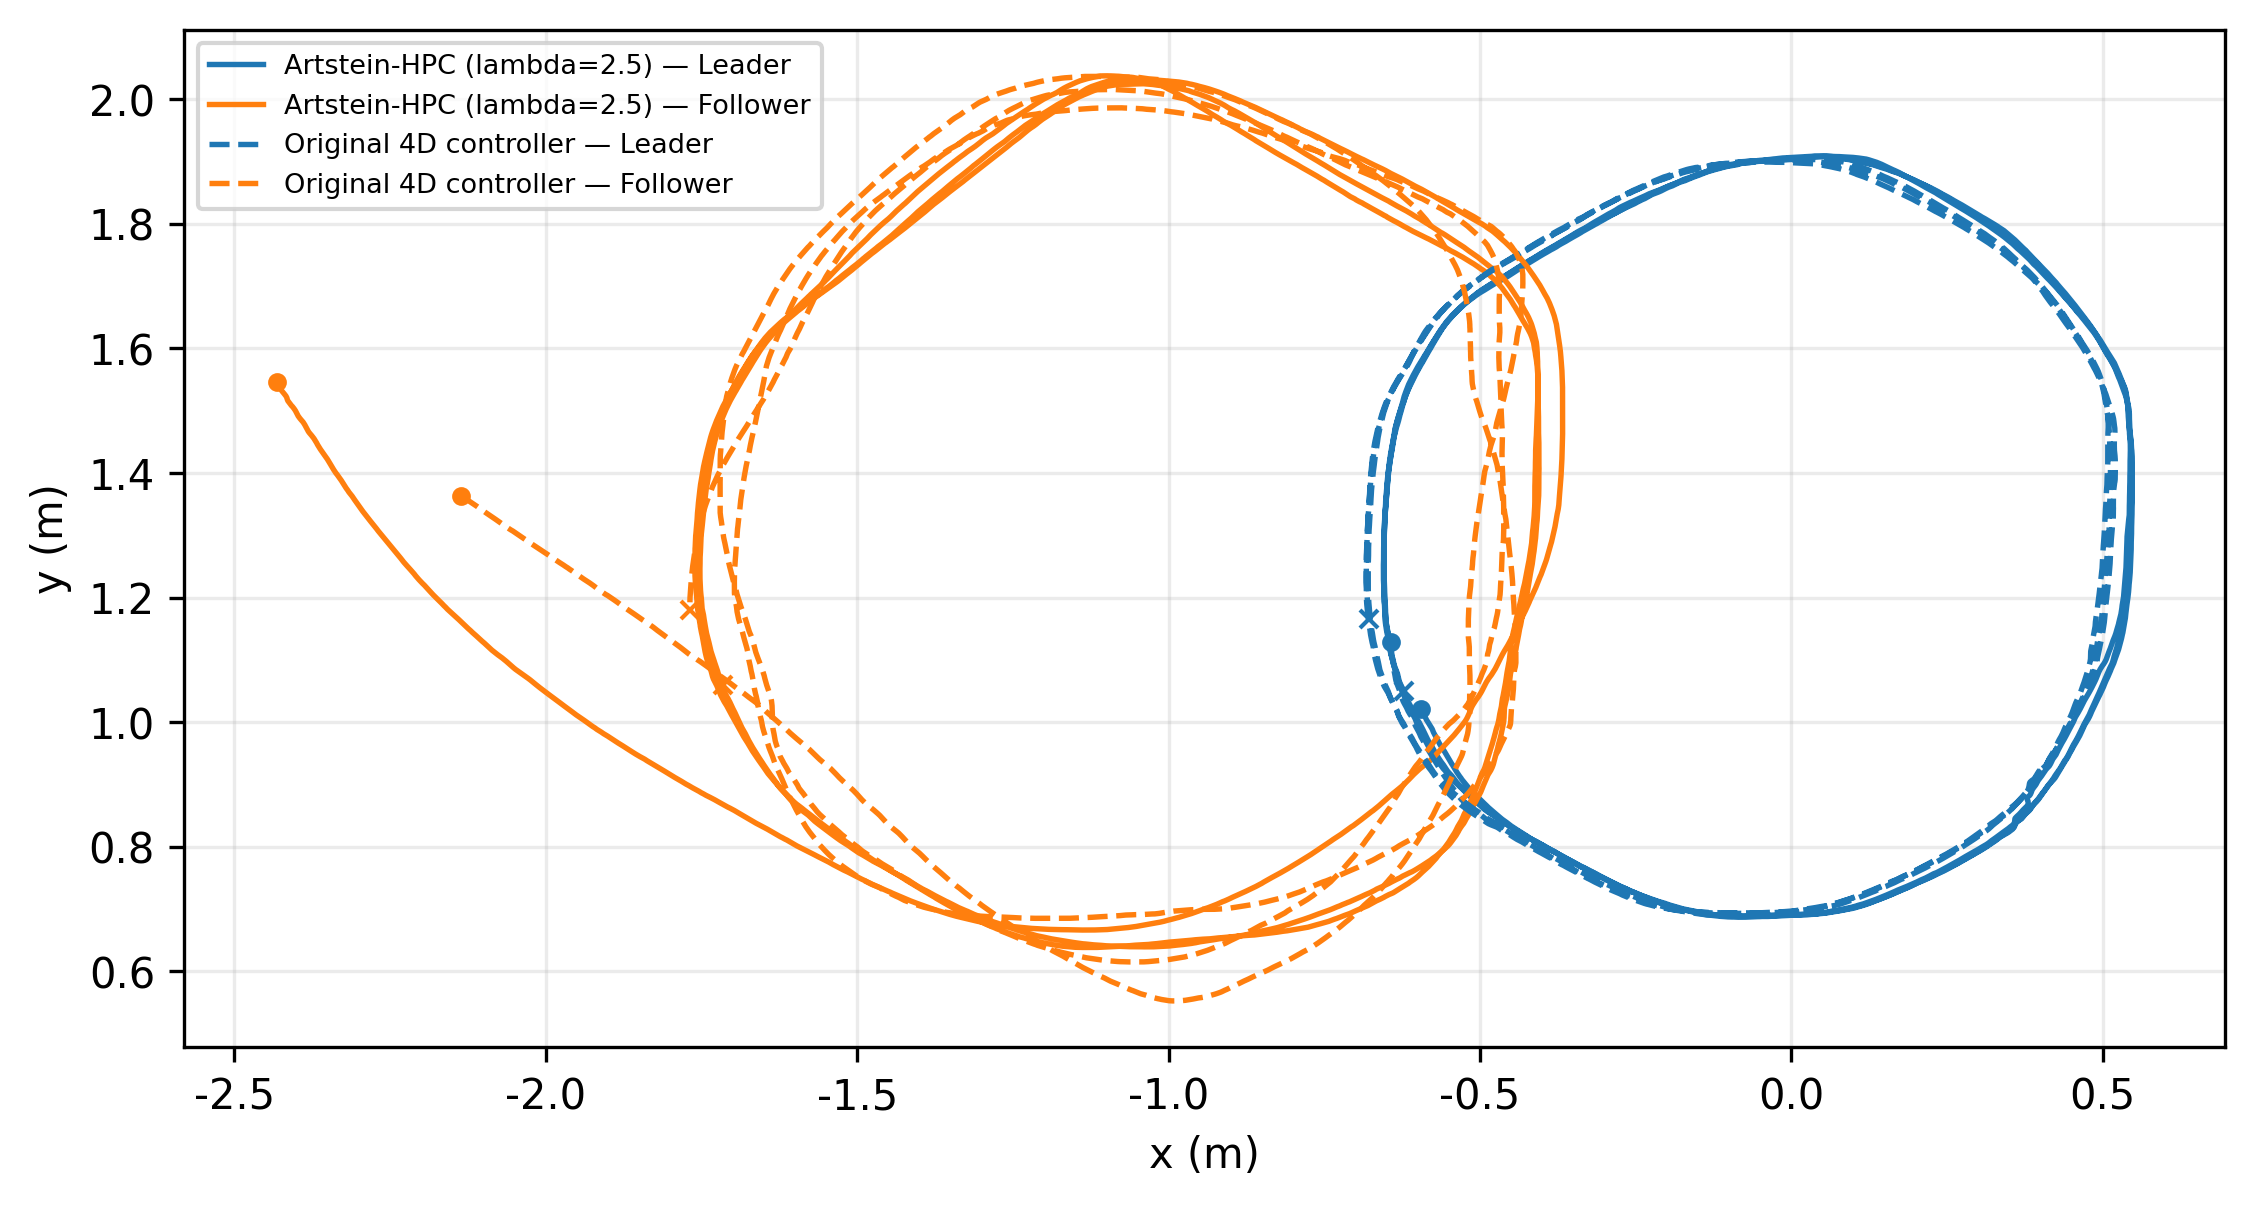
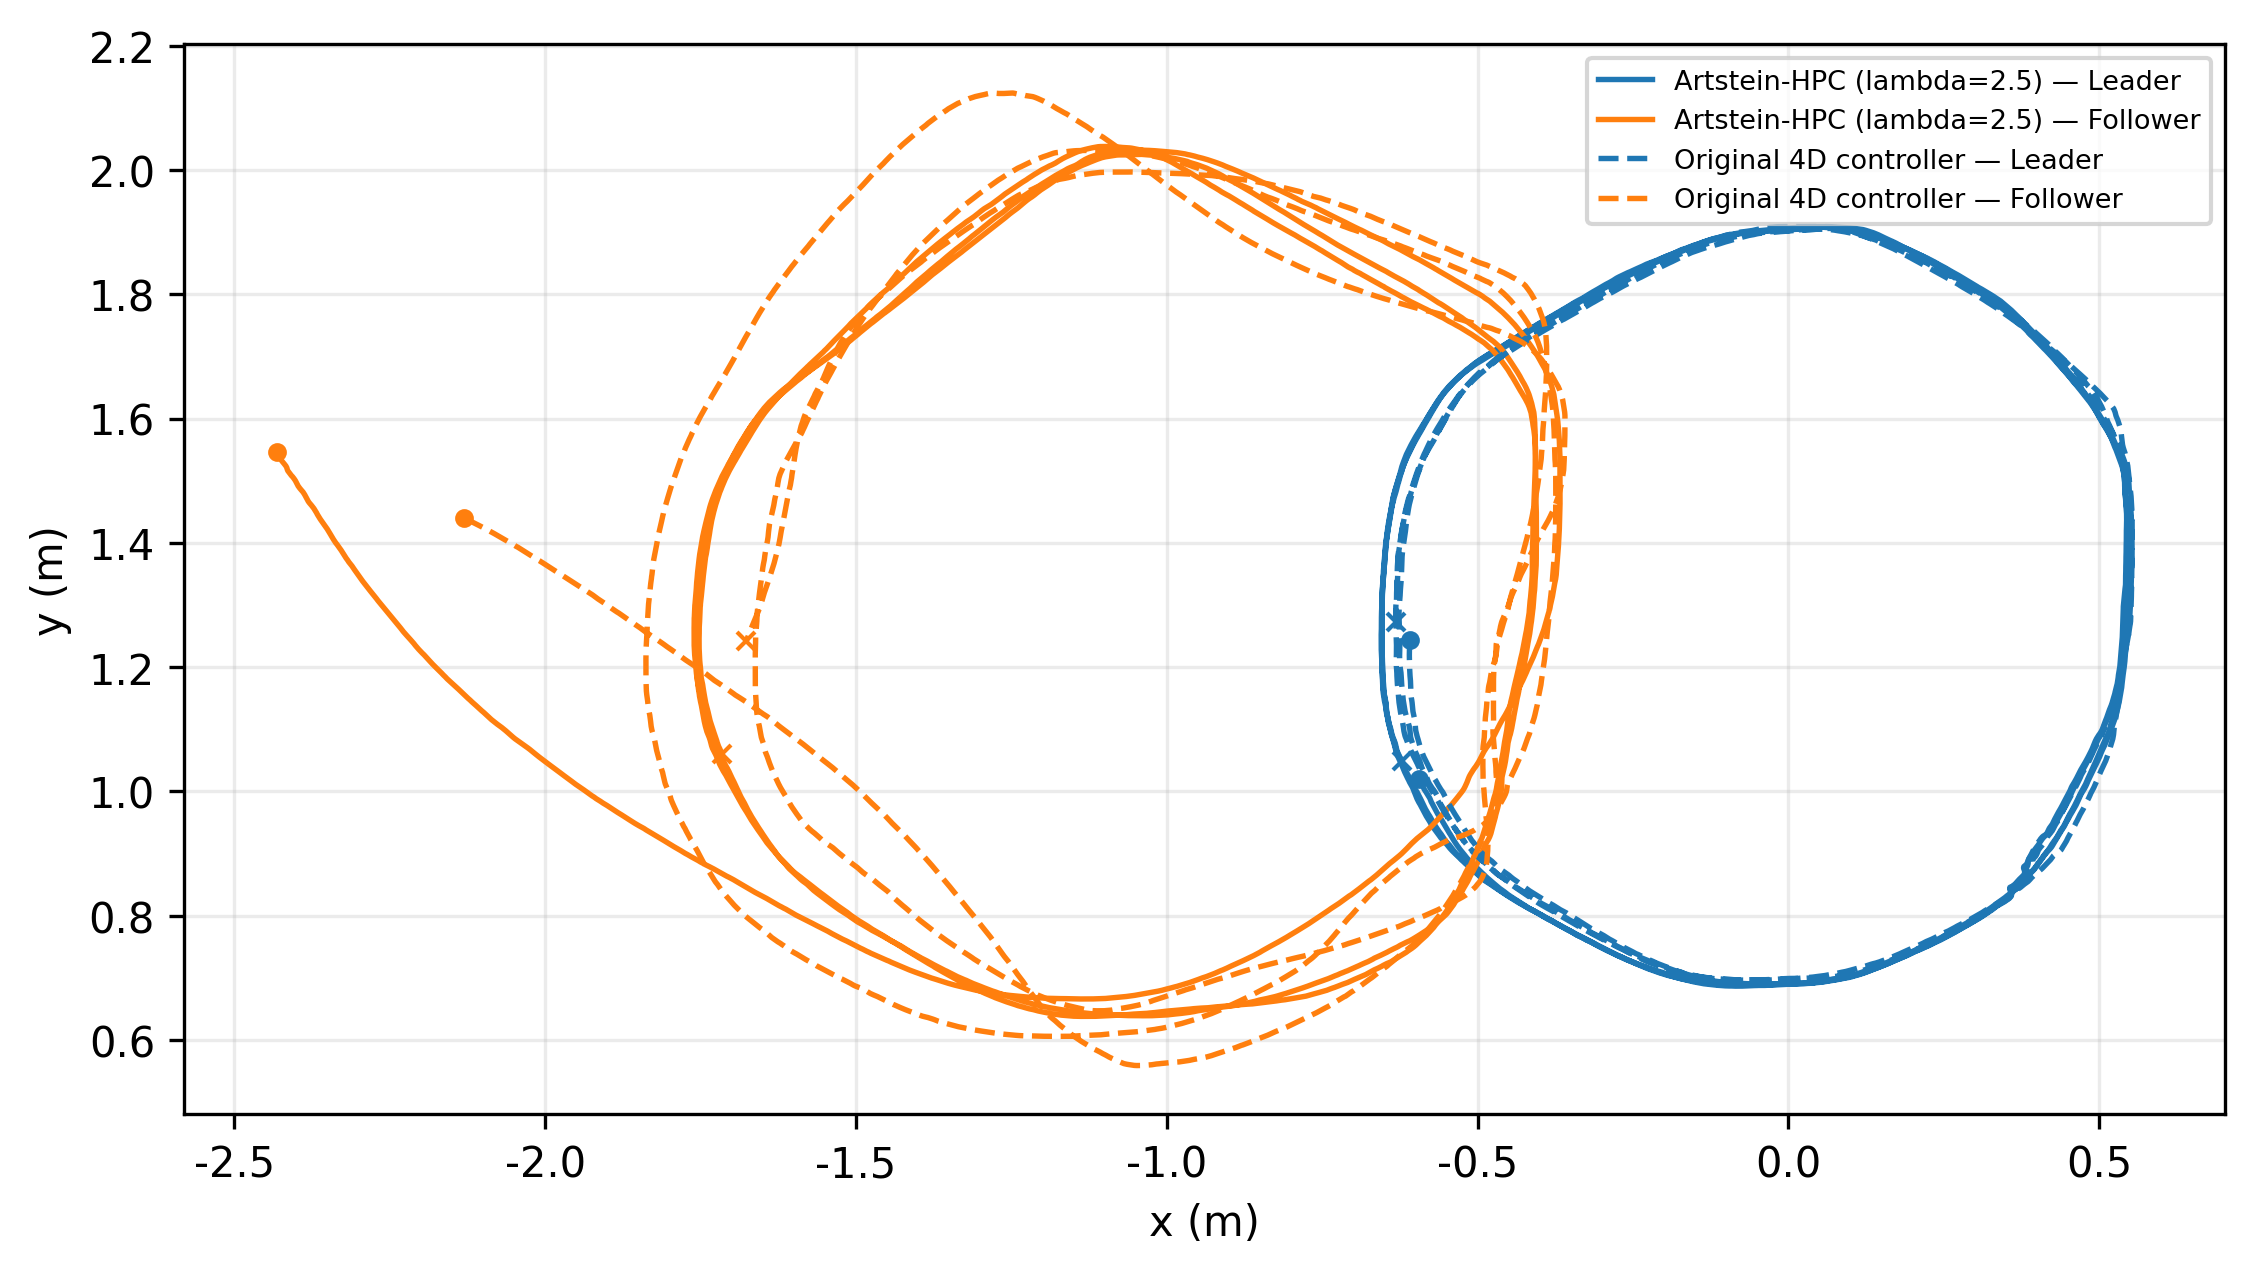
替换实验三原始4D对比数据

diff --git a/homo_multirobot_formation_control/scripts/build_real_tracking_deliverables.py b/homo_multirobot_formation_control/scripts/build_real_tracking_deliverables.py
@@ -336,7 +336,17 @@ def append_artstein_original_4d_comparison(input_dir, word_path):
     if missing:
         raise ValueError("缺少实验三指标：" + ", ".join(missing))
     document = Document(word_path)
-    add_heading(document, "7. 实验三：Artstein 4D 与原始4D控制器实物对比", 1)
+    heading_text = "7. 实验三：Artstein 4D 与原始4D控制器实物对比"
+    for paragraph in document.paragraphs:
+        if paragraph.text == heading_text:
+            body = paragraph._p.getparent()
+            start = list(body).index(paragraph._p)
+            for element in list(body)[start:]:
+                if element.tag.endswith("sectPr"):
+                    break
+                body.remove(element)
+            break
+    add_heading(document, heading_text, 1)
     add_body_paragraph(
         document,
         "本实验比较采用 Artstein 输入时滞补偿与 Follower 状态前向预测的 4D 控制器，"

diff --git a/homo_multirobot_formation_control/test/test_build_real_tracking_deliverables.py b/homo_multirobot_formation_control/test/test_build_real_tracking_deliverables.py
@@ -78,6 +78,7 @@ class MarkdownWordReportTest(unittest.TestCase):
             output = Path(temporary_directory) / "report.docx"
             builder.build_word(REPORT_DIR, output)
             builder.append_artstein_original_4d_comparison(REPORT_DIR, output)
+            builder.append_artstein_original_4d_comparison(REPORT_DIR, output)
 
             document = Document(output)
             text = "\n".join(
@@ -86,7 +87,8 @@ class MarkdownWordReportTest(unittest.TestCase):
             )
             self.assertIn("7. 实验三：Artstein 4D 与原始4D控制器实物对比", text)
             self.assertIn("原始4D控制器（未进行Artstein时滞补偿）", text)
-            self.assertIn("0.0596", text)
+            self.assertIn("0.0732", text)
+            self.assertEqual(text.count("7. 实验三：Artstein 4D 与原始4D控制器实物对比"), 1)
 
 
 if __name__ == "__main__":

diff --git a/docs/reports/2026-09-15-real-robot-tracking/data_provenance.md b/docs/reports/2026-09-15-real-robot-tracking/data_provenance.md
@@ -22,7 +22,7 @@
 | C | `robot_traj/real/4d_artstein_lpc_20260915_104805` | `trial_01` | `use_hpc=false`、`initial_min_lambda=2.0`、Leader 速度 0.20 m/s |
 | D | `robot_traj/real/4d_artstein_lpc_20260915_105440` | `trial_02` | `use_hpc=false`、`initial_min_lambda=2.5`、Leader 速度 0.25 m/s |
 | E | `robot_traj/real/4d_artstein_20260909_173424` | `trial_03` | 用户确认 λ初值=2.5 的 Artstein-HPC 实验二参考组；动捕实物记录 |
-| F | `robot_traj/real/4d_20260909_185103` | `trial_01` | 原始4D控制器实物记录；未进行Artstein时滞补偿 |
+| F | `robot_traj/real/4d_20260909_184701` | `trial_01` | 原始4D控制器实物记录；未进行Artstein时滞补偿 |
 
 实验配置以各目录的 `metadata.yaml` 为依据，轨迹与误差计算以 `raw.csv` 为依据。报告中的距离评价基准统一为控制器 `radius=1.0 m`。
 
